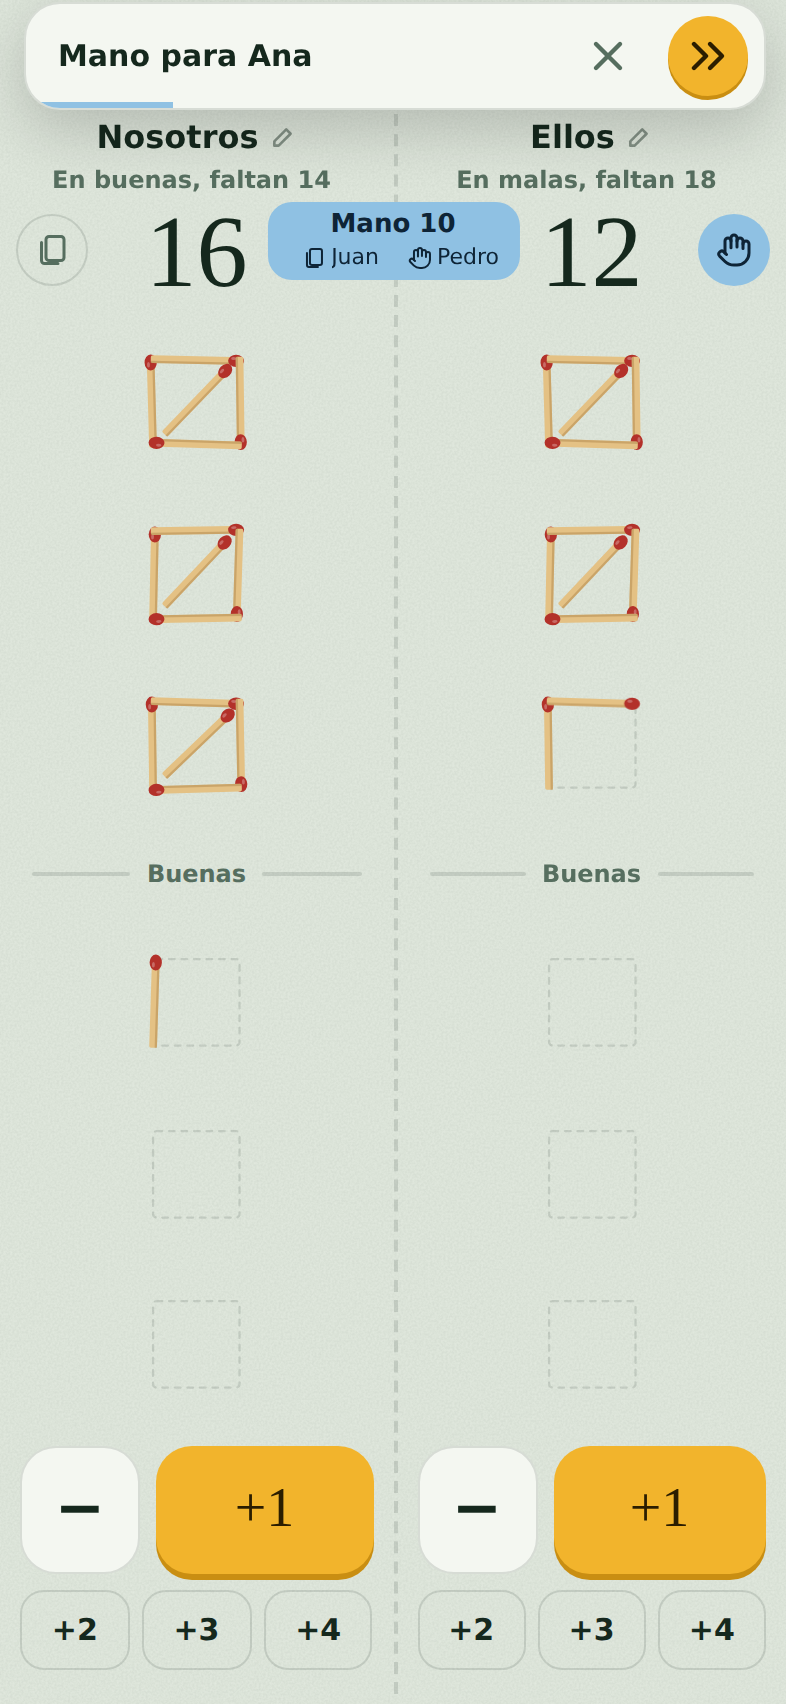
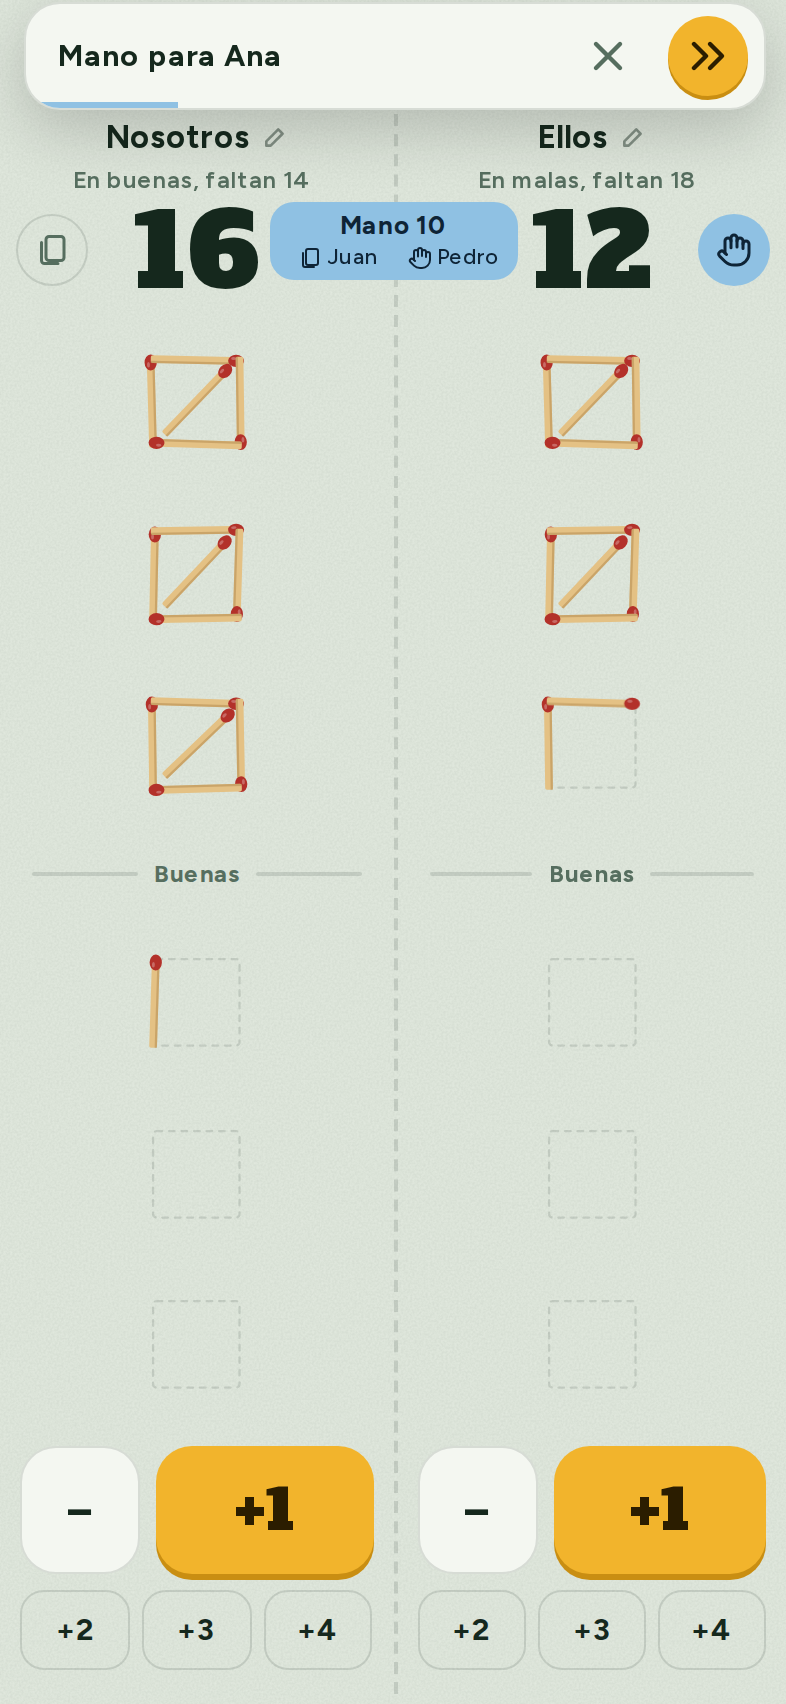
Capturas de referencia con las fuentes de verdad
- scripts/capturas.mjs: detrás de un proxy que re-firma HTTPS, pide Google Fonts
  desde Node (Chromium no confía en el certificado del proxy).
- Capturas de iPhone y Galaxy rehechas con Alfa Slab One y Figtree.

Claude-Session: https://claude.ai/code/session_01MQ7W12GL5RqBzvMtRdi9oN

diff --git a/CLAUDE.md b/CLAUDE.md
@@ -118,7 +118,9 @@ npm run capturas -- --out docs/capturas/prs/23 mesa   # para un PR
 - Si un cambio toca lo que se ve en ellas, se vuelven a sacar en el mismo PR.
 - Los casos extremos (pantallas chicas, nombres largos, de a 8) son para validar y van
   solo en la carpeta del PR.
-- En el entorno de Claude Code en la nube npm no llega al registro; Playwright y Chromium
-  ya están instalados: `mkdir -p node_modules && ln -sfn /opt/node22/lib/node_modules/playwright node_modules/playwright`.
-  Tampoco llega a Google Fonts, así que las capturas salen con las fuentes de reemplazo
-  salvo que se habiliten `fonts.googleapis.com` y `fonts.gstatic.com` en el entorno.
+- En el entorno de Claude Code en la nube, si npm no llega al registro, Playwright y
+  Chromium ya están instalados: `mkdir -p node_modules && ln -sfn /opt/node22/lib/node_modules/playwright node_modules/playwright`.
+  El entorno necesita `fonts.googleapis.com` y `fonts.gstatic.com` en los dominios
+  permitidos; como su proxy re-firma HTTPS y Chromium no confía en él, el script pide las
+  fuentes desde Node (`HTTPS_PROXY`). Si las capturas salen con Georgia y la fuente del
+  sistema, no cargaron las fuentes: no subirlas así.
